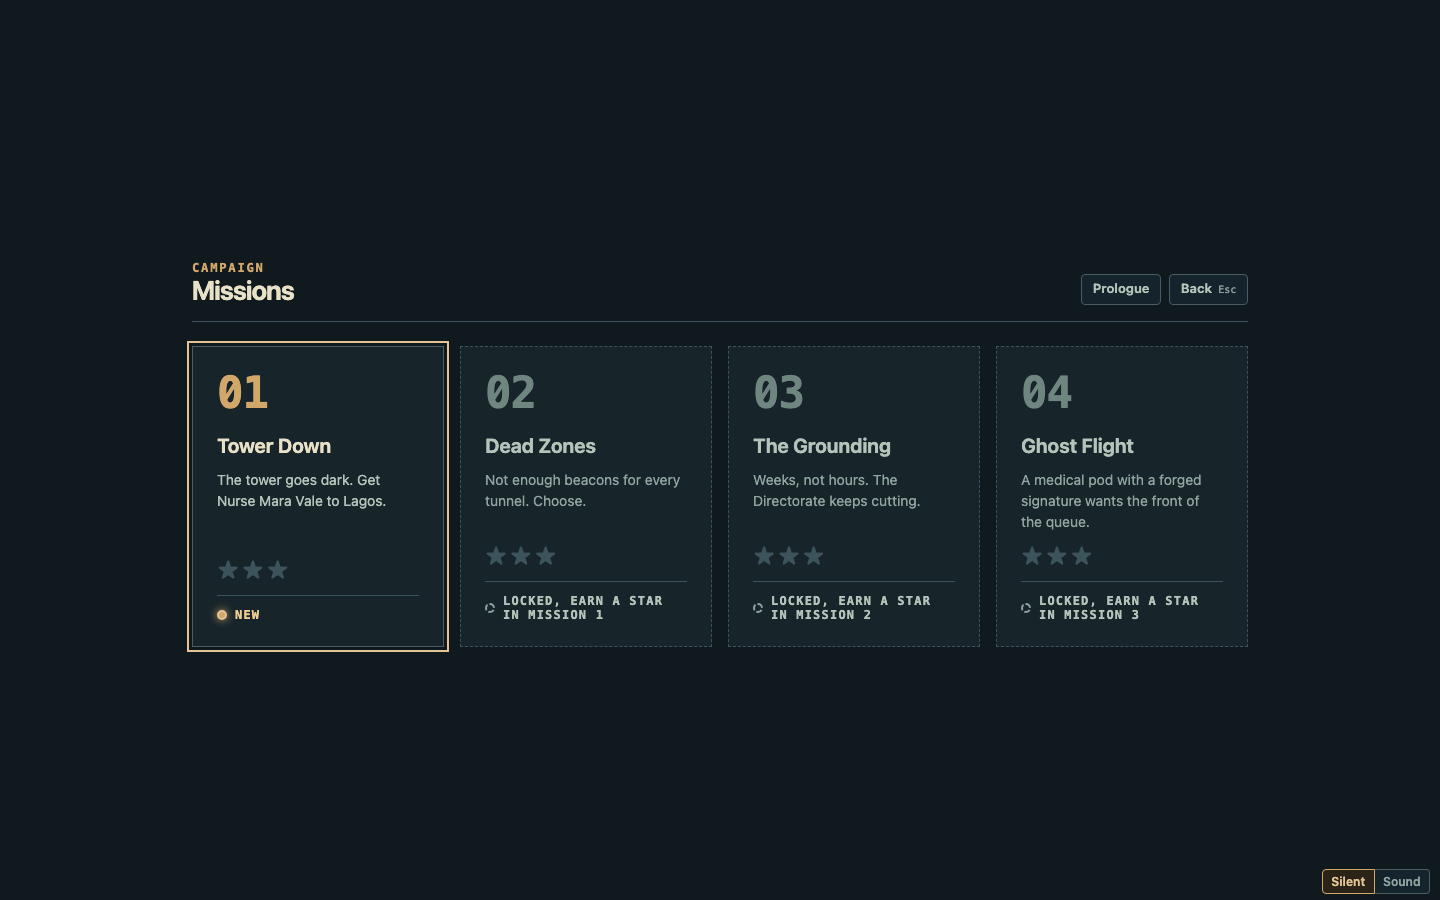
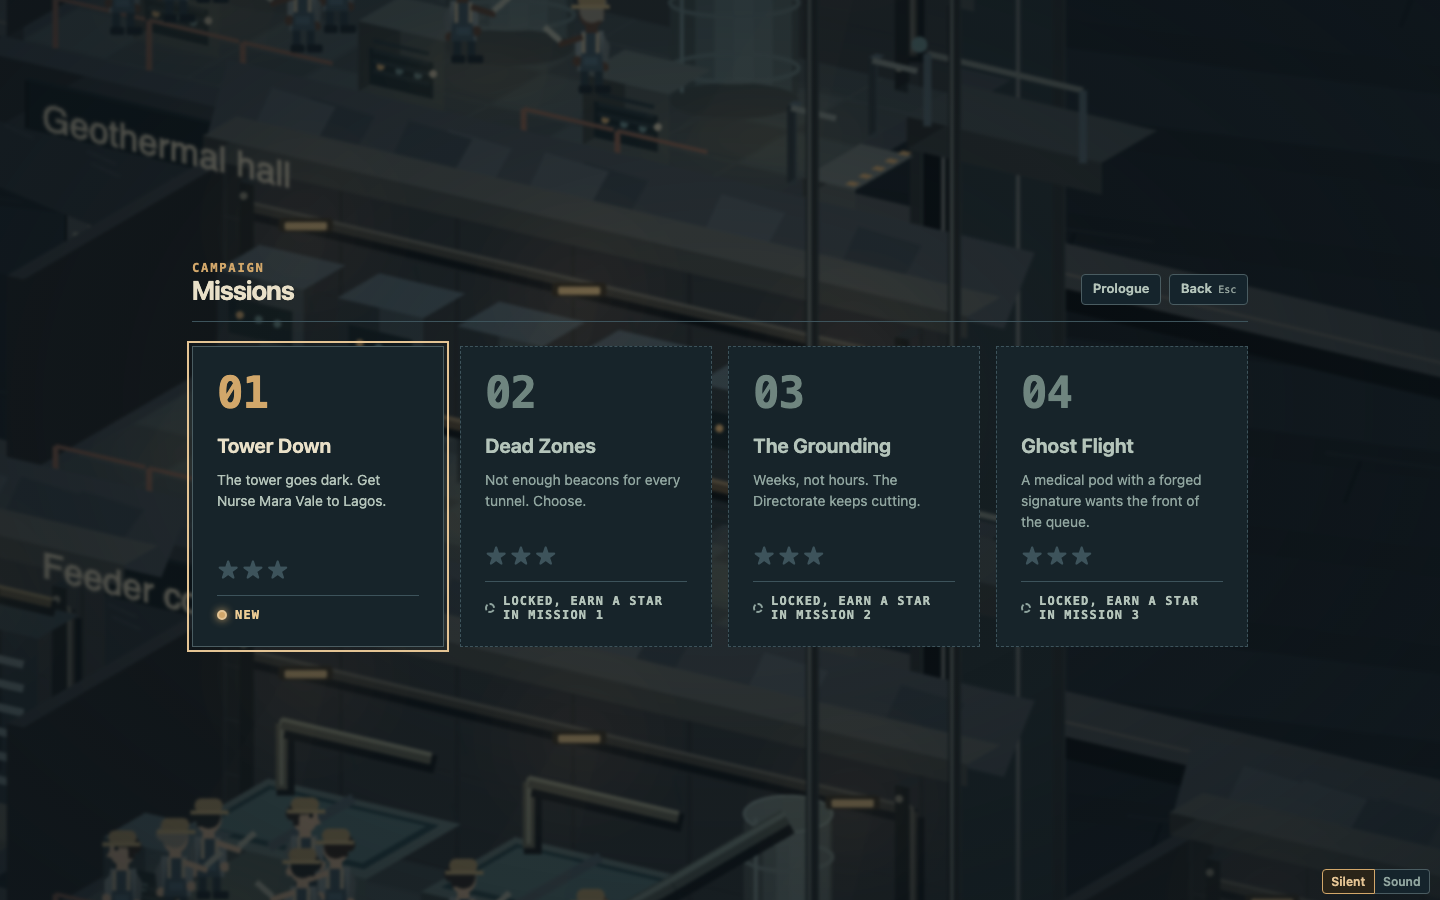
Keep the Strata backdrop on title and story screens; flat only on the run view

diff --git a/hollow-world/src/echo-view/game/game.css b/hollow-world/src/echo-view/game/game.css
@@ -25,10 +25,17 @@ html, body, #root { margin: 0; height: 100%; background: var(--bg); color: var(-
 .g-link:hover { color: var(--amberText); border-bottom-color: var(--amberDim); }
 
 
+/* the Strata scene behind the story screens: dimmed and softened so panels and text stay readable */
+.g-backdrop { position: fixed; inset: 0; z-index: 0; overflow: hidden; background: var(--stage); pointer-events: none; }
+.g-backdrop canvas { width: 100%; height: 100%; display: block; filter: blur(1.5px) brightness(.58) saturate(.9); transform: scale(1.03); }
+.g-backdrop.deep canvas { filter: blur(2.5px) brightness(.46) saturate(.8); }
+.g-backdrop::after { content: ""; position: absolute; inset: 0; background: radial-gradient(ellipse at 50% 45%, rgba(13,22,28,.1) 0, rgba(13,22,28,.6) 100%); }
+
 /* title */
-.g-title { background: var(--stage); display: flex; flex-direction: column; align-items: center; justify-content: center; gap: 0; text-align: center; padding: 24px 16px; }
+.g-title::before { content: ""; position: absolute; inset: 0; z-index: 1; background: radial-gradient(ellipse 50% 46% at center, rgba(10,16,19,.95) 0, rgba(10,16,19,.82) 55%, rgba(10,16,19,.3) 100%); pointer-events: none; }
+.g-title { display: flex; flex-direction: column; align-items: center; justify-content: center; gap: 0; text-align: center; padding: 24px 16px; }
 .g-title > :not(canvas) { position: relative; z-index: 2; }
-.g-title h1 { letter-spacing: .07em; margin: 8px -.07em 0 0; }
+.g-title h1 { font-size: clamp(72px, 12vw, 180px); line-height: .95; letter-spacing: .07em; margin: 8px -.07em 0 0; }
 .g-title .g-title-main { margin-top: clamp(32px, 6vh, 56px); justify-content: center; }
 .g-title .g-title-more { margin-top: 12px; justify-content: center; }
 

diff --git a/hollow-world/src/echo-view/game/GameApp.tsx b/hollow-world/src/echo-view/game/GameApp.tsx
@@ -8,6 +8,7 @@ import { createEngine } from "../../echo/engine";
 import type { Mission } from "../../echo/types";
 import { MissionScreen } from "../MissionScreen";
 import { byId, CAMPAIGN, EPILOGUE, PROLOGUE, starsFor, storyFor, type CampaignMission } from "./campaign";
+import { Backdrop } from "./Backdrop";
 import { Briefing, Interlude } from "./Briefing";
 import { Debrief, type RunResult } from "./Debrief";
 import { MissionSelect } from "./MissionSelect";
@@ -59,6 +60,9 @@ function initial(): State {
   if (screen === "prepare" && !hasBudget(base)) return { screen: "run", cm, base, placed: base, run: 0 };
   return { screen, cm, base, placed: base, run: 0 };
 }
+
+// The Strata scene sits behind every screen except the map screens (prepare, run).
+const withBackdrop = (screen: Screen) => screen !== "run";
 
 export function GameApp() {
   const [st, setSt] = useState<State>(initial);
@@ -146,7 +150,7 @@ export function GameApp() {
       />
     );
   }
-  return <>{screenFor()}<SoundToggle /></>; // flat Descent slate: no Strata scene behind any screen
+  return <>{withBackdrop(st.screen) && <Backdrop deep={st.screen === "prepare"} />}{screenFor()}<SoundToggle /></>;
 
   function screenFor() {
   const { cm } = st;
